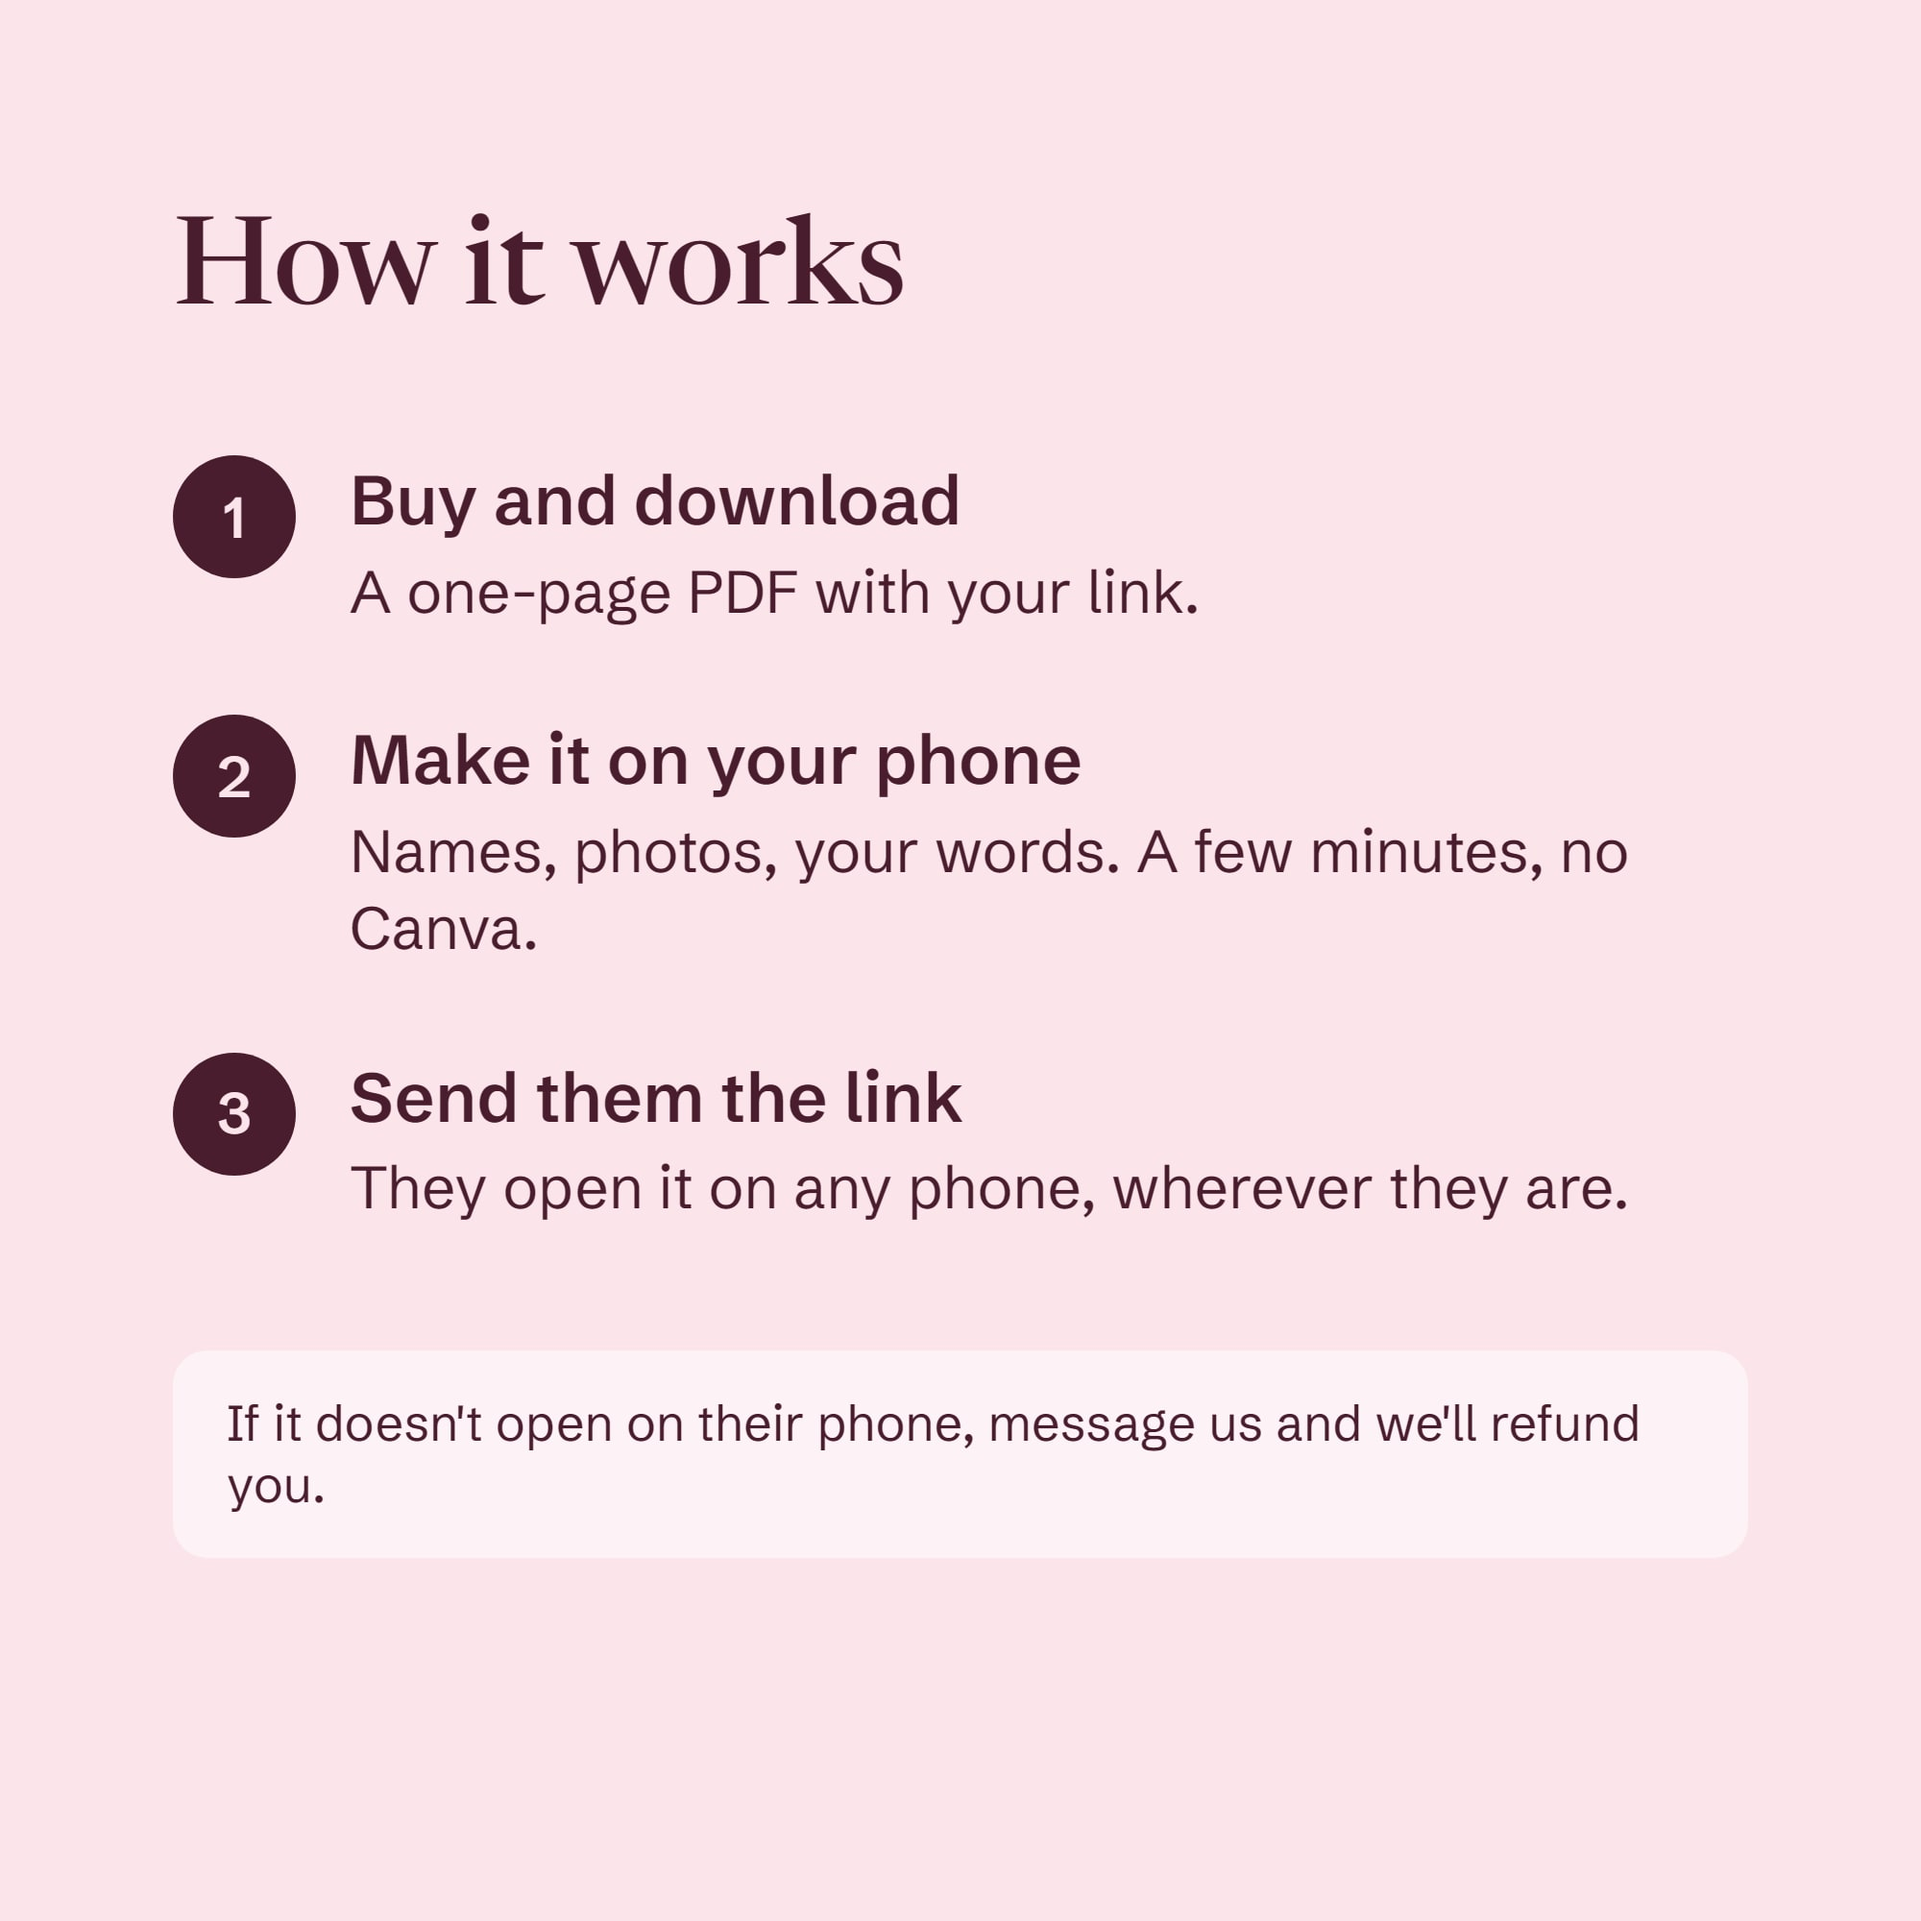
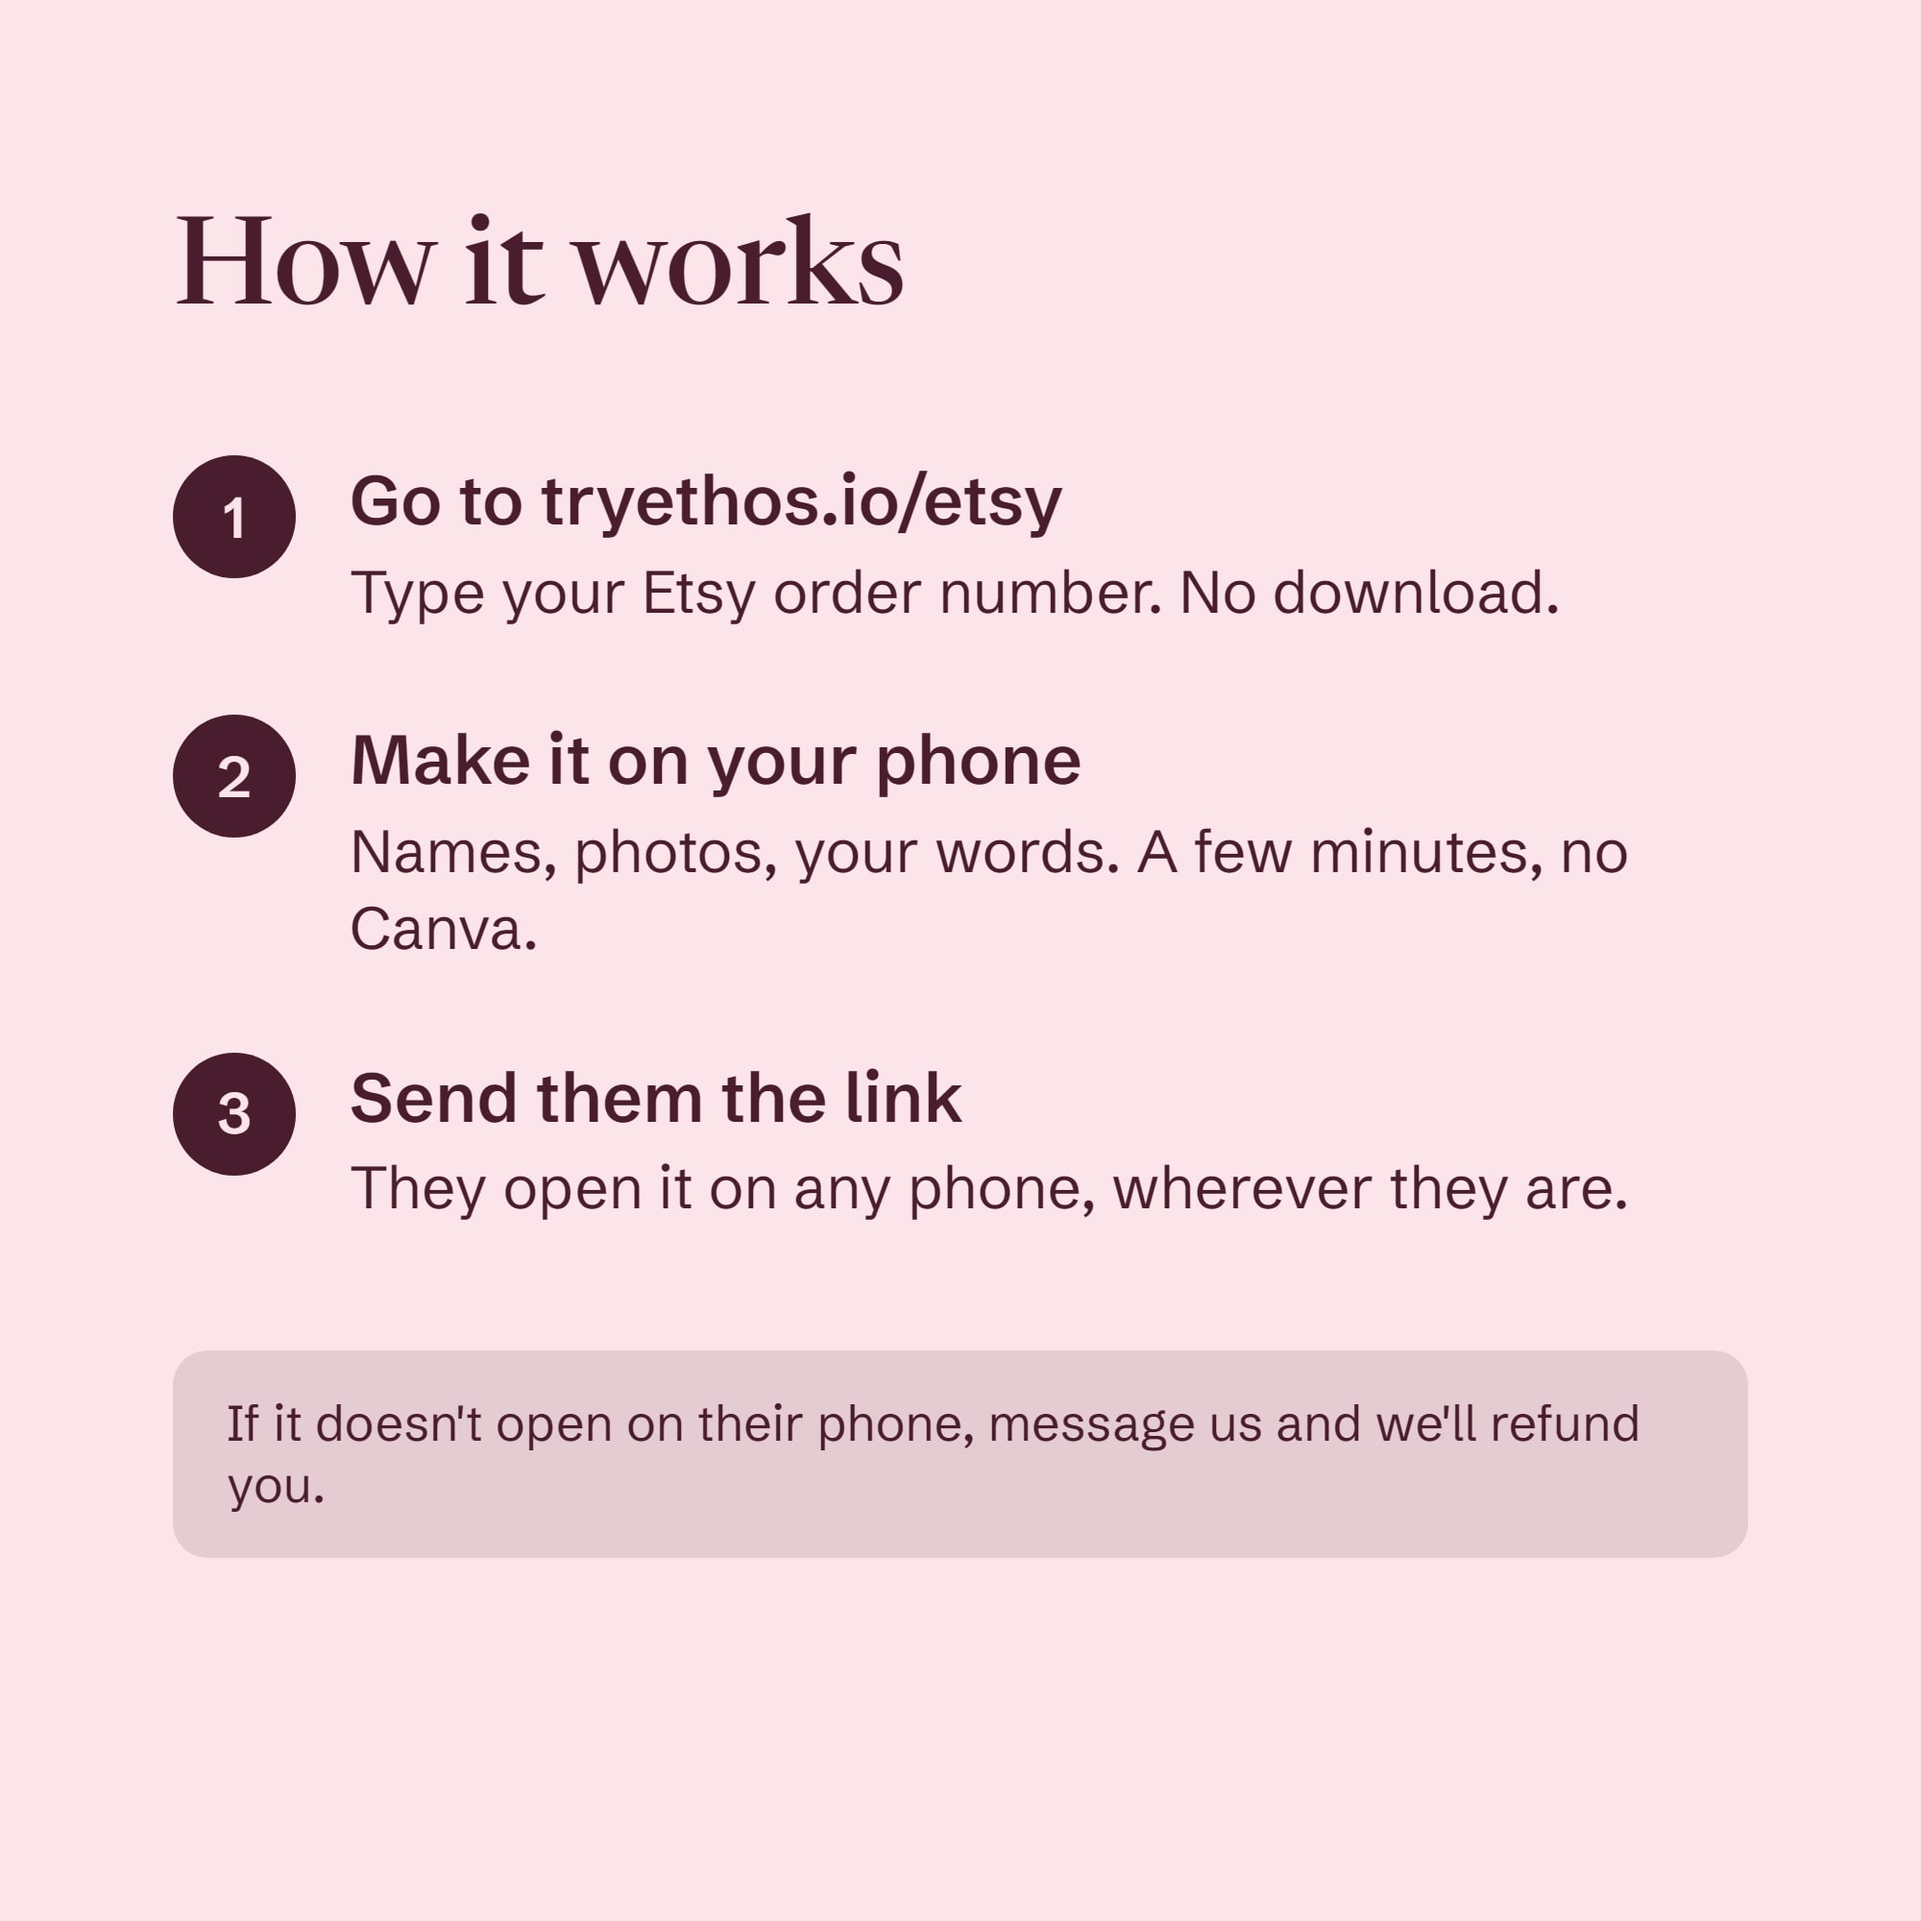
fix(etsy): an order number pasted as "Order #…" works; the how-it-works photo names /etsy
- etsyOrderNumber takes the one run of digits, so Etsy's own "Order #4213425511" pasted into
  /etsy or the gift's Etsy box is read, not refused as "doesn't look like an order number".
- The fifth listing photo's first step was "Buy and download: a one-page PDF". It now says "Go to
  tryethos.io/etsy: type your Etsy order number. No download." Regenerated for all 17;
  ETSY_PHOTOS=5-how-it-works renders that photo alone, without the demo frames.

Changed region(s): [[0.093, 0.682, 0.93, 0.837], [0.186, 0.248, 0.651, 0.341], [0.682, 0.279, 0.806, 0.341]]

diff --git a/tests/unit/etsy.test.ts b/tests/unit/etsy.test.ts
@@ -108,7 +108,9 @@ describe("reading an Etsy order", () => {
   it("takes the order number as Etsy prints it, and the template from the listing's SKU", () => {
     expect(etsyOrderNumber("3456789012")).toBe(3456789012);
     expect(etsyOrderNumber(" #3456 789 012 ")).toBe(3456789012);
-    for (const bad of ["", "12345", "34567890ab", "1234567890123456"]) expect(etsyOrderNumber(bad)).toBeNull();
+    // Pasted from Etsy's email as it prints it.
+    expect(etsyOrderNumber("Order #3456789012")).toBe(3456789012);
+    for (const bad of ["", "12345", "1234567890123456", "Order #3456789012 on 28 Oct"]) expect(etsyOrderNumber(bad)).toBeNull();
     expect(skuTemplate("ethos-popup-card")).toBe("popup-card");
     expect(skuTemplate("POPUP-CARD")).toBe("popup-card");
     expect(skuTemplate("ethos-not-a-template")).toBeNull();

diff --git a/src/lib/etsy/receipt.ts b/src/lib/etsy/receipt.ts
@@ -20,9 +20,13 @@ export type EtsyTransaction = {
   price?: { amount: number; divisor: number; currency_code: string } | null;
 };
 
-/** An Etsy order number as typed: digits only, spaces and a leading "#" forgiven. */
+/**
+ * An Etsy order number as typed or pasted: its one run of digits, so "#4213425511" and Etsy's own
+ * "Order #4213425511" work, and spaces inside it are forgiven. Two numbers are no order number.
+ */
 export function etsyOrderNumber(raw: string): number | null {
-  const digits = raw.replace(/[\s#]/g, "");
+  const runs = raw.replace(/(\d)\s+(?=\d)/g, "$1").match(/\d+/g) ?? [];
+  const digits = runs.length === 1 ? runs[0] : "";
   if (!/^\d{6,15}$/.test(digits)) return null;
   const n = Number(digits);
   return Number.isSafeInteger(n) ? n : null;
